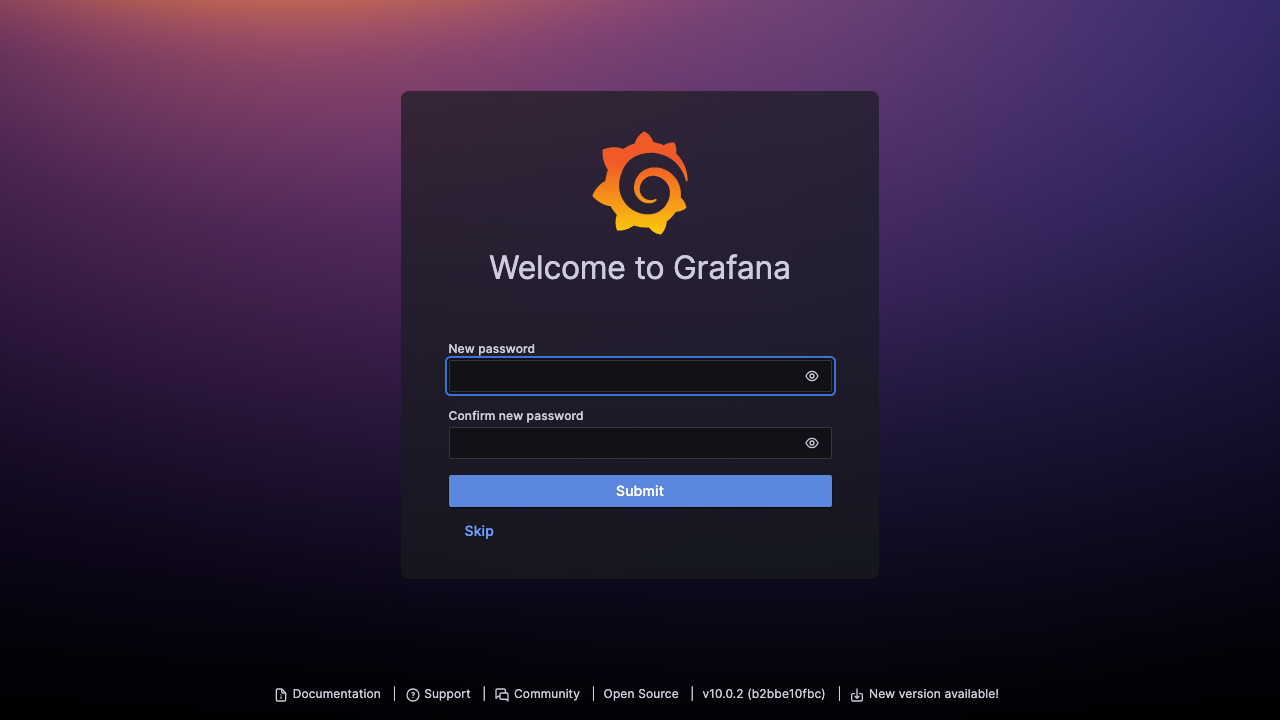
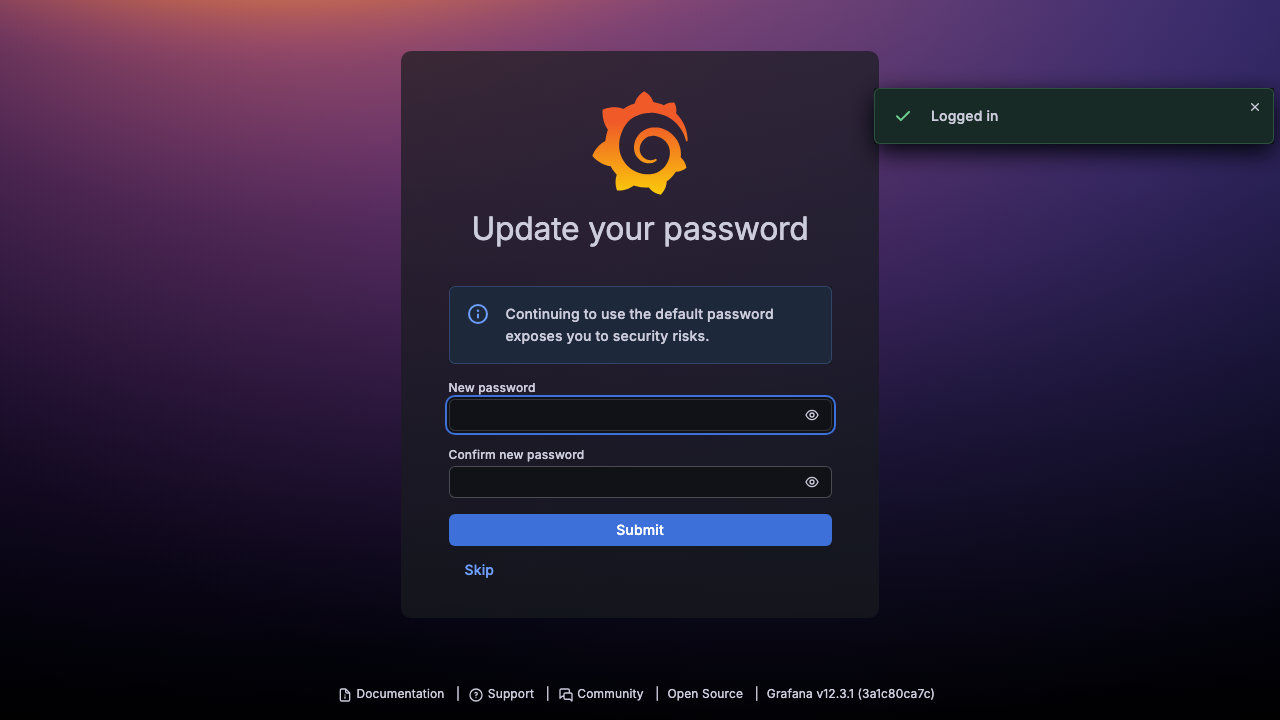
update codes

Changed region(s): [[0.3125, 0.0611, 1.0, 0.3972], [0.3438, 0.4278, 0.6562, 0.7639], [0.2188, 0.9472, 0.7812, 0.9778]]

diff --git a/src/my-plugin.spec.ts b/src/my-plugin.spec.ts
@@ -1,49 +1,50 @@
-import { test, expect } from '@playwright/test';
-import * as grafanaE2E from '@grafana/plugin-e2e';
+// import { test, expect } from '@playwright/test';
+// import * as grafanaE2E from '@grafana/plugin-e2e';
 
-console.log('Grafana E2E module loaded:', grafanaE2E);
+// console.log('Grafana E2E module loaded:', grafanaE2E);
 
-const BASE_URL = process.env.GRAFANA_URL || 'http://localhost:3000';
+// const BASE_URL = process.env.GRAFANA_URL || 'http://localhost:3000';
 
-test.describe('Grafana Plugin E2E Basic Tests', () => {
-  test('Module should be imported', async () => {
-    expect(grafanaE2E).toBeDefined();
-  });
+// test.describe('Grafana Plugin E2E Basic Tests', () => {
+//   test('Module should be imported', async () => {
+//     expect(grafanaE2E).toBeDefined();
+//   });
 
-  test('Grafana homepage should load', async ({ page }) => {
-    await page.goto(BASE_URL);
-    await expect(page).toHaveTitle(/Grafana/);
-  });
+//   test('Grafana homepage should load', async ({ page }) => {
+//     await page.goto(BASE_URL);
+//     await expect(page).toHaveTitle(/Grafana/);
+//   });
 
-    test('Grafana 10.x login with debug', async ({ page }) => { 
-      const GRAFANA_URL = process.env.GRAFANA_URL ?? 'http://localhost:3000';
-      const ADMIN_USER = process.env.GRAFANA_ADMIN_USER ?? 'admin';
-      const ADMIN_PASS = process.env.GRAFANA_ADMIN_PASSWORD ?? 'admin';
+//     test('Grafana 12.x login with debug', async ({ page }) => { 
+//       const GRAFANA_URL = process.env.GRAFANA_URL ?? 'http://localhost:3000';
+//       const ADMIN_USER = process.env.GRAFANA_ADMIN_USER ?? 'admin';
+//       const ADMIN_PASS = process.env.GRAFANA_ADMIN_PASSWORD ?? 'admin';
 
-      await page.goto(GRAFANA_URL); 
+//       await page.goto(GRAFANA_URL); 
 
-      // login page 
-      await page.fill('input[name="user"]', ADMIN_USER); 
-      await page.fill('input[name=password]', ADMIN_PASS); 
-      await page.click('button[type="submit"]');
+//       // login page 
+//       await page.fill('input[name="user"]', ADMIN_USER); 
+//       await page.fill('input[name=password]', ADMIN_PASS); 
+//       await page.click('button[type="submit"]');
 
-      await page.waitForTimeout(3000);
+//       await page.waitForTimeout(3000);
       
-      await page.screenshot({ path: 'debug-login-1.png', fullPage: true });
+//       await page.screenshot({ path: 'debug-login-1.png', fullPage: true });
       
-      const skipButton = page.locator('button[aria-label="Skip change password button"]');
+//       const skipButton = page.locator('button[aria-label="Skip change password button"]');
 
      
 
-      if (await skipButton.count() > 0) {
-        await skipButton.waitFor({ state: 'visible', timeout: 10000 });
-        await skipButton.click();
-      }
+//       if (await skipButton.count() > 0) {
+//         await skipButton.waitFor({ state: 'visible', timeout: 10000 });
+//         await skipButton.click();
+//       }
 
-      await page.waitForTimeout(3000);
-      await page.screenshot({ path: 'debug-login-2.png', fullPage: true });      
-      const toggleMenuButton = page.locator('button[aria-label="Toggle menu"]');    
-      await toggleMenuButton.waitFor({ state: 'visible', timeout: 15000 });
-      await expect(toggleMenuButton).toBeVisible({ timeout: 15000 });
-    })
-});
+//       const toggleMenuButton = page.locator('button[aria-label="Toggle menu"]');
+//       if (await toggleMenuButton.count() > 0) {
+//           console.log('Selector exists');
+//       } else {
+//           console.log('Selector NOT found');
+//       }
+//     })
+// });

diff --git a/src/my-grafana.spec.ts b/src/my-grafana.spec.ts
@@ -1,0 +1,19 @@
+import { test, expect } from '@playwright/test';
+import { selectors } from '@grafana/e2e-selectors';
+
+const BASE_URL = process.env.GRAFANA_URL ?? 'http://localhost:3000';
+const ADMIN_USER = process.env.GRAFANA_ADMIN_USER ?? 'admin';
+const ADMIN_PASS = process.env.GRAFANA_ADMIN_PASSWORD ?? 'admin';
+const GRAFANA_VERSION = process.env.GRAFANA_VERSION ?? '12.3.1';
+
+test.describe(`Grafana ${GRAFANA_VERSION} – selector contract validation`, () => {
+
+    test('Debug: print available login selectors', () => {
+    console.log('Login.username selector:', selectors.pages.Login.username);
+    console.log('Login.password selector:', selectors.pages.Login.password);
+    console.log('Login.submit selector:', selectors.pages.Login.submit);
+    console.log('Login.skip selector:', selectors.pages.Login.skip);
+});
+
+
+});
